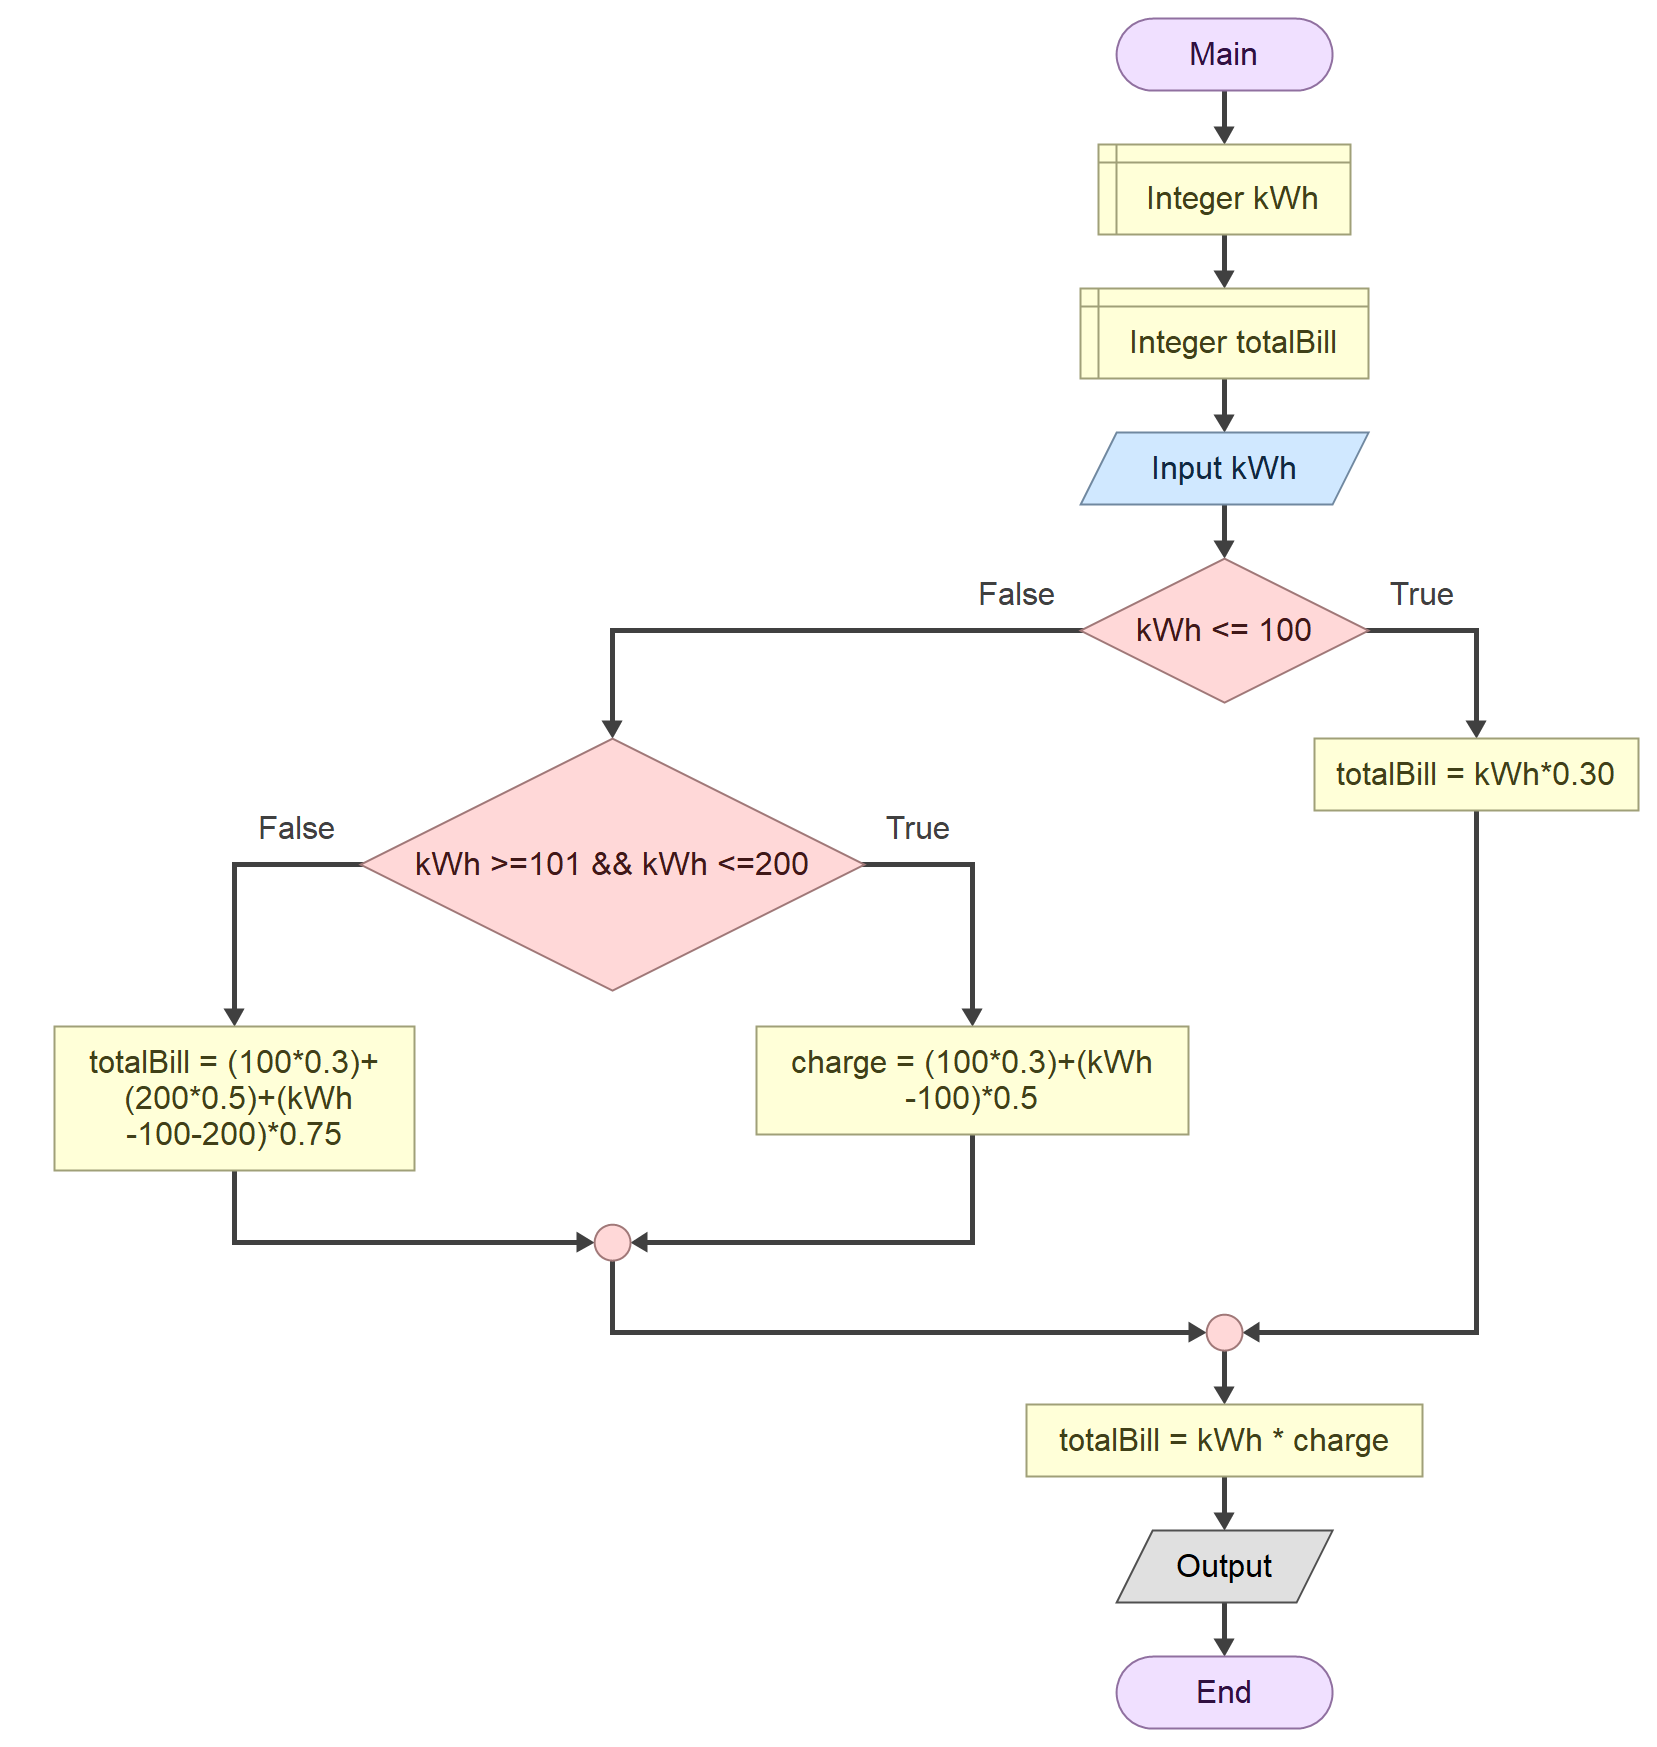
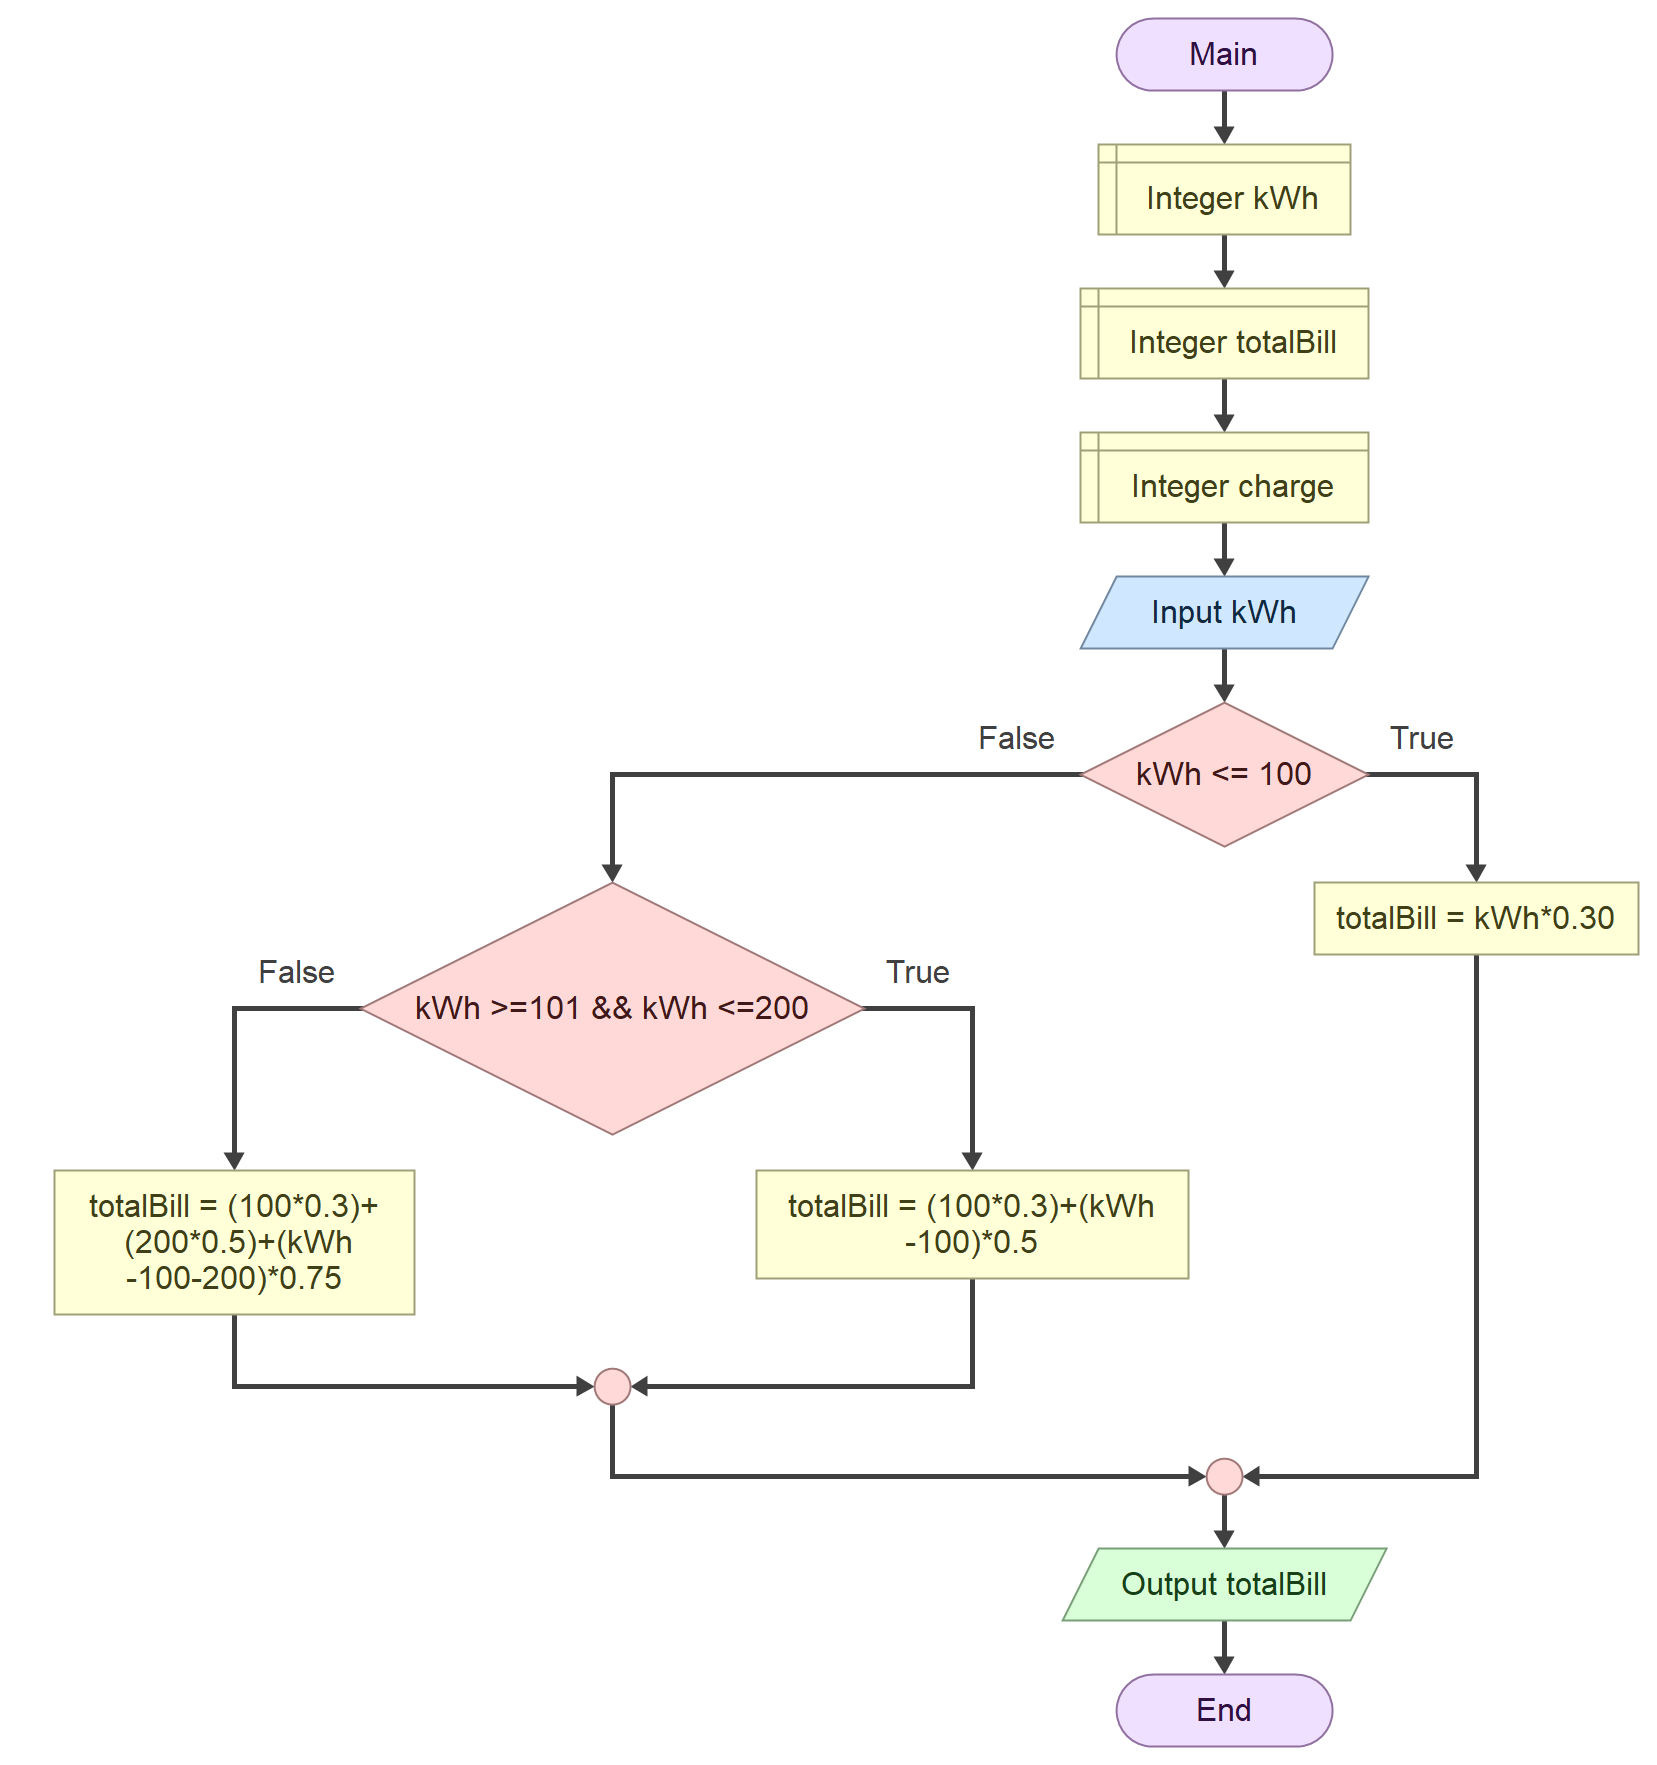
finish lab 5

diff --git a/labs/lab05/exercise.py b/labs/lab05/exercise.py
@@ -1,9 +1,3 @@
-# Lab 05 - practice file
-#
-# Use this file to try out the examples as you work through the lab.
-# Type them in, run the file, then clear it out and use it again for the next one.
-#
-# Run it from the terminal with:   python exercise.py
-# On Windows you may need:         py exercise.py
-#
-# Nothing in this file is marked, so experiment as much as you like.
+name = "Alice"
+age = 25
+print("My name is {name} and I am {age} years old.")

diff --git a/labs/lab05/exercise4.py b/labs/lab05/exercise4.py
@@ -1,0 +1,13 @@
+item_name = input("Item name: ")
+item_price =float(input("Item price : "))
+
+quantity = 3
+tax_rate  = 0.06
+
+subtotal = item_price * quantity
+tax = subtotal * tax_rate
+total = subtotal + tax
+
+print("Subtotal;", subtotal)
+print("Tax:", tax)
+print("Total Cost:", total)

diff --git a/labs/lab05/exercise5.py b/labs/lab05/exercise5.py
@@ -1,0 +1,14 @@
+score1 = int(input("Score 1":))
+score2 = int(input("Score 2":))
+score3 = int(input("Score 3:"))
+
+total = score1 + score2 + score3
+average = (score1 + score2 + score3) / 3
+
+print(score1)
+print(score2)
+print(score3)
+
+print(total)
+print(average)
+

diff --git a/labs/lab05/exercise1.py b/labs/lab05/exercise1.py
@@ -1,0 +1,13 @@
+name = str(input("Enter your name:"))
+age = int(input("Enter your age :"))
+coursecode = str(input("Enter your course code :"))
+
+print(name)
+print(type(name))
+
+print(age)
+print(type(age))
+
+print(coursecode)
+print(type(coursecode))
+

diff --git a/labs/lab05/exercise2.py b/labs/lab05/exercise2.py
@@ -1,0 +1,10 @@
+import math
+
+radius = float(input("Radius :"))
+area = math.pi * radius ** 2
+circumference = 2 * math.pi * radius
+
+print("Area of the circle is :", area)
+print("Circumference of the circle is :", circumference)
+
+      

diff --git a/labs/lab05/exercise3.py b/labs/lab05/exercise3.py
@@ -1,0 +1,5 @@
+import random
+
+classname= input("Enter your class name: ")
+random_number = random.randint(1,100)
+print(f"Random number for {classname} is: {random_number}")
